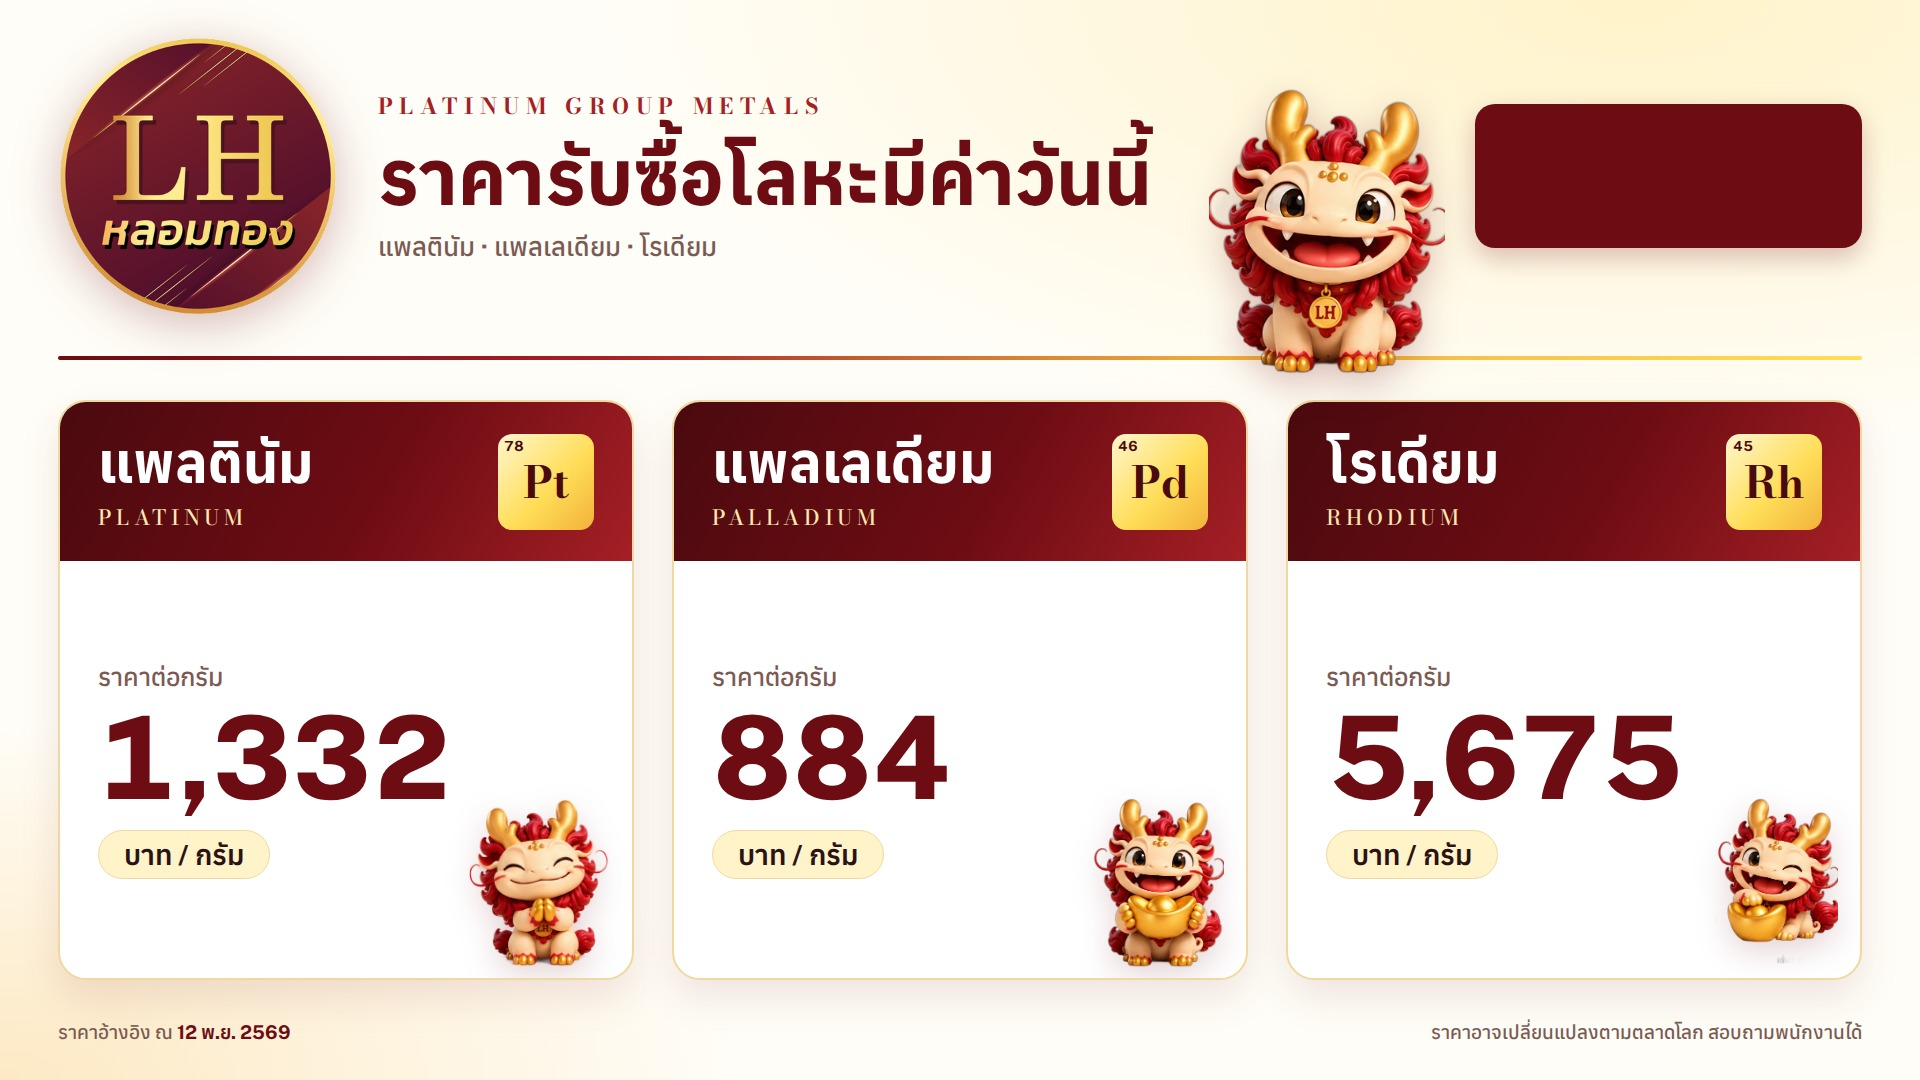
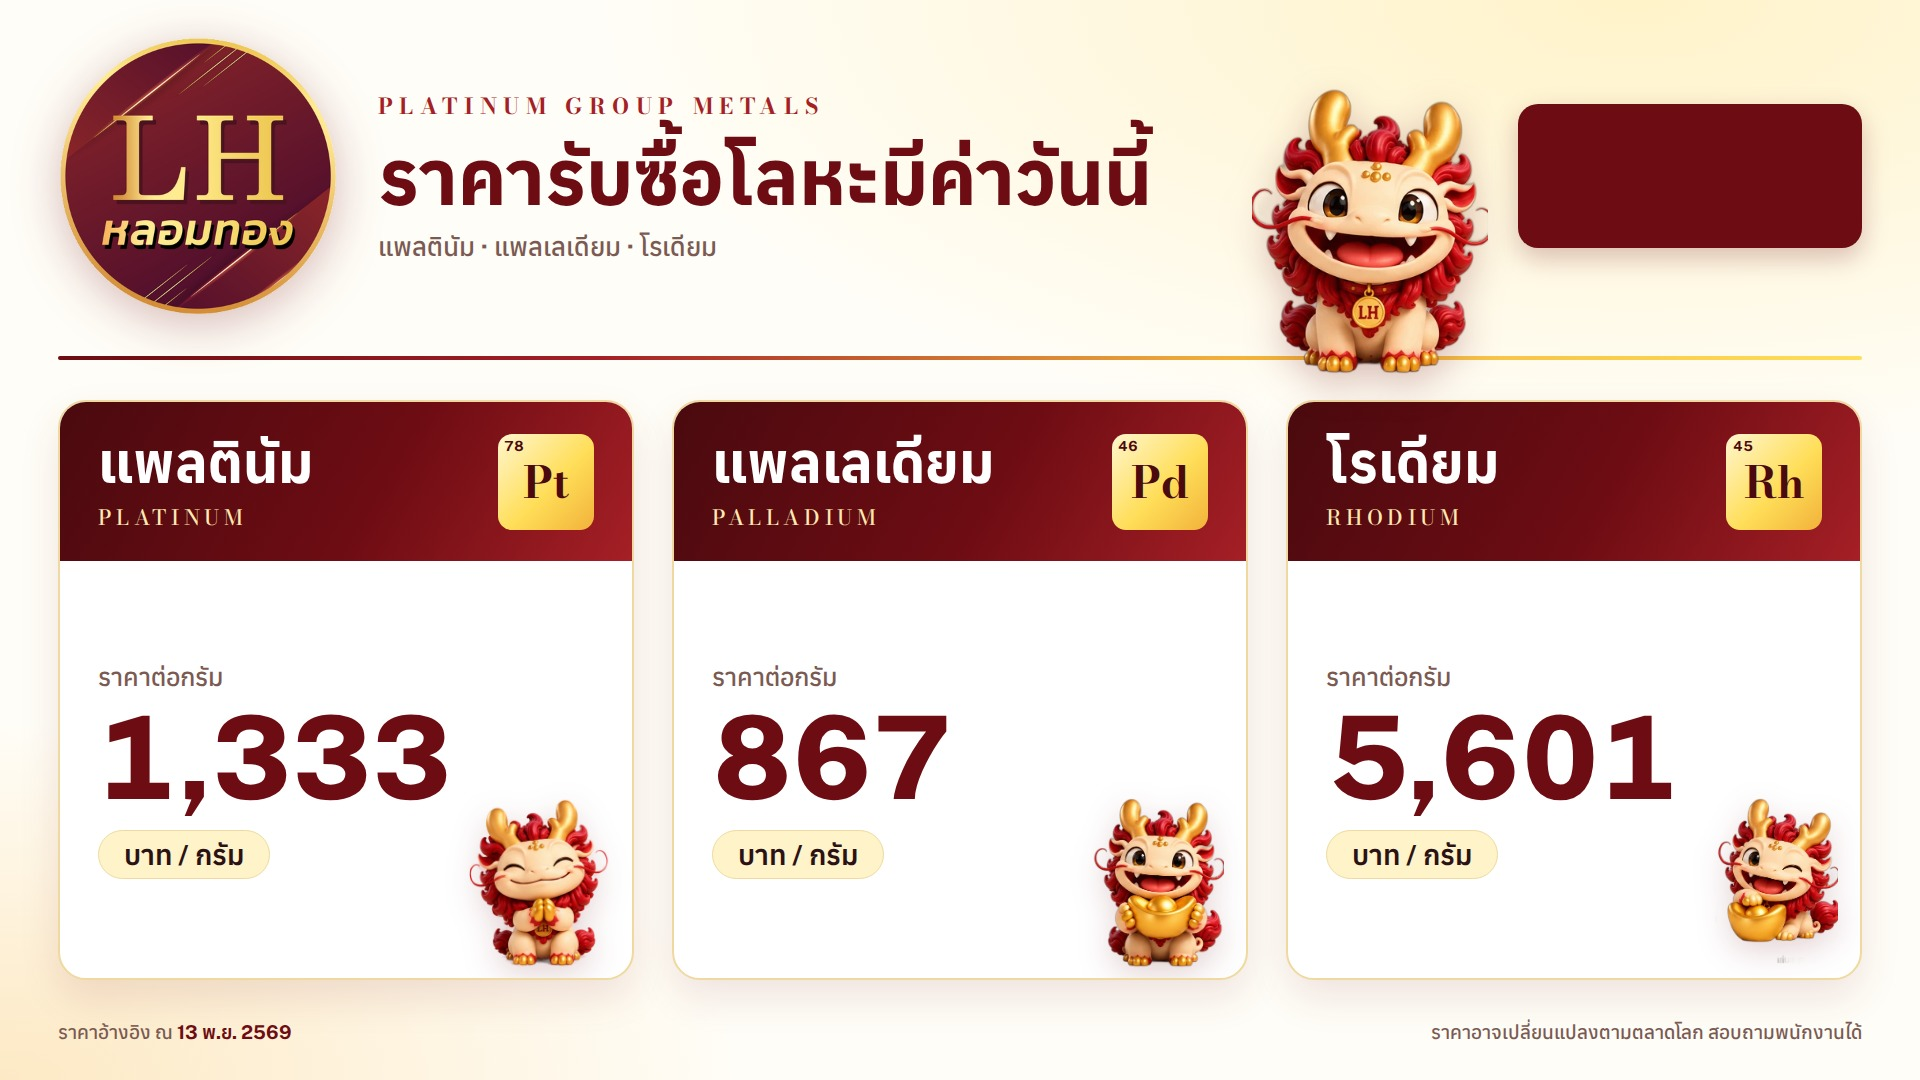
Update prices 2026-11-13

diff --git a/board.html b/board.html
@@ -302,15 +302,15 @@ html{-webkit-text-size-adjust:100%;text-size-adjust:100%}
      ราคาแต่ละเกรด = ราคาเงินหลังหัก × เปอร์เซ็นต์ (99.99% ใช้ราคาเต็ม)
    showSilver = เปิด/ปิดหน้าราคาเงิน, rotateSeconds = เปลี่ยนหน้าทุกกี่วินาที */
 const CONFIG = {
-  asOf: "12 พ.ย. 2569",
-  fx: 33.72,
+  asOf: "13 พ.ย. 2569",
+  fx: 33.86,
   discount: 0.20,
   rotateSeconds: 15,
   showSilver: true,
   metals: [
-    { th:"แพลตินัม",  en:"Platinum",  sym:"Pt", z:78, usdPerGram:49.3835 },
-    { th:"แพลเลเดียม", en:"Palladium", sym:"Pd", z:46, usdPerGram:32.7616 },
-    { th:"โรเดียม",    en:"Rhodium",   sym:"Rh", z:45, usdPerGram:280.52, discount:0.40 }
+    { th:"แพลตินัม",  en:"Platinum",  sym:"Pt", z:78, usdPerGram:49.2228 },
+    { th:"แพลเลเดียม", en:"Palladium", sym:"Pd", z:46, usdPerGram:32.0221 },
+    { th:"โรเดียม",    en:"Rhodium",   sym:"Rh", z:45, usdPerGram:275.69, discount:0.40 }
   ],
   silver: { pricePerKg: 55000, grades: [95, 92.5, 90, 70, 50, 30] }
 };
